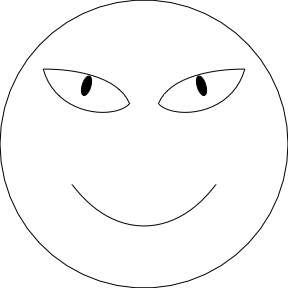
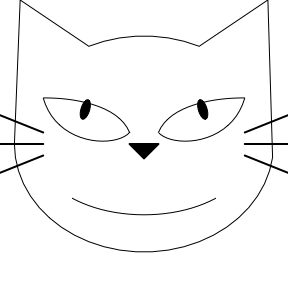
added more cat features

diff --git a/README.md b/README.md
@@ -51,10 +51,15 @@ face() +
 
 ![](man/figures/README-unnamed-chunk-5-1.png)<!-- -->
 
-Change to a cat eye:
+Make it into a cat face:
 
 ``` r
-face() + cat_eyes()
+face() + 
+  cat_eyes() +
+  cat_whiskers() +  
+  cat_shape() +
+  cat_nose() +
+  sketch_mouth(smile = 0.4)
 ```
 
 ![](man/figures/README-unnamed-chunk-6-1.png)<!-- -->
